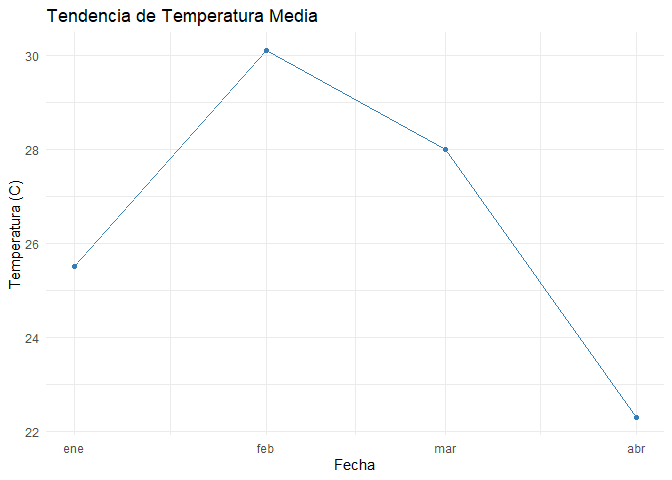
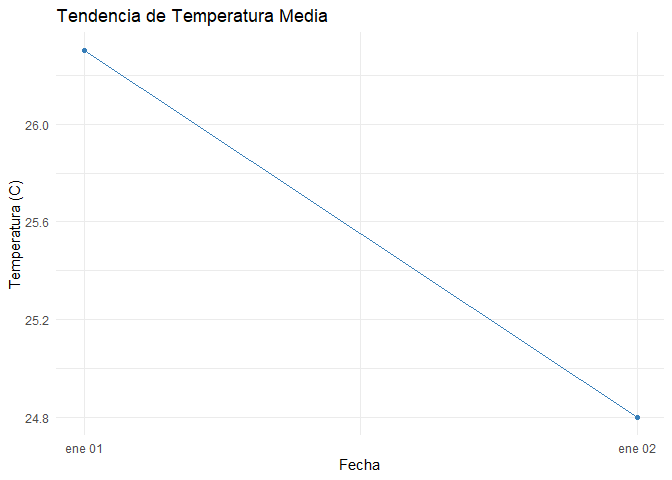
ARREGLANDO EL README + IMAGEN

diff --git a/README.md b/README.md
@@ -6,10 +6,11 @@ experimental](https://img.shields.io/badge/lifecycle-experimental-orange.svg)](h
 
 # paqueteMeteo: Análisis de Datos Meteorológicos del SIGA
 
-El paquete `paqueteMeteo` proporciona un conjunto de herramientas
-enfocadas en la **lectura, limpieza y resumen** de datos meteorológicos
-del sistema SIGA (INTA). Garantiza un flujo de trabajo **reproducible y
-estandarizado** para la ciencia de datos.
+<img src="man/figures/logo.png" align="right" width="120" /> El paquete
+`paqueteMeteo` proporciona un conjunto de herramientas enfocadas en la
+**lectura, limpieza y resumen** de datos meteorológicos del sistema SIGA
+(INTA). Garantiza un flujo de trabajo **reproducible y estandarizado**
+para la ciencia de datos.
 
 ## Características Principales
 
@@ -41,22 +42,28 @@ Puedes instalar la versión de desarrollo desde GitHub con:
 devtools::install_github("Lucas-Descalzo/paqueteMeteo")
 #> utf8     (1.2.4 -> 1.2.6) [CRAN]
 #> tibble   (3.2.1 -> 3.3.0) [CRAN]
-#> purrr    (1.0.2 -> 1.1.0) [CRAN]
+#> stringr  (1.5.2 -> 1.6.0) [CRAN]
+#> purrr    (1.0.2 -> 1.2.0) [CRAN]
 #> magrittr (2.0.3 -> 2.0.4) [CRAN]
 #> glue     (1.7.0 -> 1.8.0) [CRAN]
+#> 
+#>   There are binary versions available but the source versions are later:
+#>         binary source needs_compilation
+#> stringr  1.5.2  1.6.0             FALSE
+#> purrr    1.1.0  1.2.0              TRUE
+#> 
 #> package 'utf8' successfully unpacked and MD5 sums checked
 #> package 'tibble' successfully unpacked and MD5 sums checked
-#> package 'purrr' successfully unpacked and MD5 sums checked
 #> package 'magrittr' successfully unpacked and MD5 sums checked
 #> package 'glue' successfully unpacked and MD5 sums checked
 #> 
 #> The downloaded binary packages are in
-#>  C:\Users\lucas\AppData\Local\Temp\Rtmpkzf9O3\downloaded_packages
+#>  C:\Users\lucas\AppData\Local\Temp\RtmpU3xc0I\downloaded_packages
 #> ── R CMD build ─────────────────────────────────────────────────────────────────
-#>          checking for file 'C:\Users\lucas\AppData\Local\Temp\Rtmpkzf9O3\remotes7de462e86790\Lucas-Descalzo-paqueteMeteo-b74e9ea/DESCRIPTION' ...  ✔  checking for file 'C:\Users\lucas\AppData\Local\Temp\Rtmpkzf9O3\remotes7de462e86790\Lucas-Descalzo-paqueteMeteo-b74e9ea/DESCRIPTION' (369ms)
-#>       ─  preparing 'paqueteMeteo': (720ms)
+#>       ✔  checking for file 'C:\Users\lucas\AppData\Local\Temp\RtmpU3xc0I\remotes26ccc0e5e24\Lucas-Descalzo-paqueteMeteo-bdbe7fc/DESCRIPTION'
+#>       ─  preparing 'paqueteMeteo': (447ms)
 #>    checking DESCRIPTION meta-information ...     checking DESCRIPTION meta-information ...   ✔  checking DESCRIPTION meta-information
-#>       ─  checking for LF line-endings in source and make files and shell scripts (362ms)
+#>       ─  checking for LF line-endings in source and make files and shell scripts
 #>   ─  checking for empty or unneeded directories
 #>      Omitted 'LazyData' from DESCRIPTION
 #>       ─  building 'paqueteMeteo_0.1.0.tar.gz'
@@ -86,16 +93,22 @@ Se utiliza `siga_read()` para importar los datos crudos y luego
 tipo `Date` en la columna `fecha`.
 
 ``` r
-datos_crudos <- paqueteMeteo::siga_read(ruta_ejemplo)
+datos_crudos <- tibble::tibble(
+  fecha  = as.Date(c("2024-01-01", "2024-01-02")),
+  tmed   = c(26.3, 24.8),
+  lluvia = c(0, 5)
+)
+
+# Forzamos a que se vean mensajes en este chunk
+knitr::opts_chunk$set(message = TRUE)
+
 datos_limpios <- paqueteMeteo::meteo_clean(datos_crudos)
 head(datos_limpios)
-#> # A tibble: 4 × 3
+#> # A tibble: 2 × 3
 #>   fecha       tmed lluvia
 #>   <date>     <dbl>  <dbl>
-#> 1 2024-01-01  25.5    5  
-#> 2 2024-02-01  30.1    1.2
-#> 3 2024-03-01  28      0  
-#> 4 2024-04-01  22.3   15
+#> 1 2024-01-01  26.3      0
+#> 2 2024-01-02  24.8      5
 ```
 
 ### 2. Resumen Estadístico
@@ -108,7 +121,7 @@ paqueteMeteo::meteo_summary(datos_limpios)
 #> # A tibble: 1 × 2
 #>   temp_media lluvia_total
 #>        <dbl>        <dbl>
-#> 1       26.5         21.2
+#> 1       25.6            5
 ```
 
 ### 3. Visualización de Tendencia
@@ -118,11 +131,7 @@ temperatura media, utilizando la columna `fecha` para un análisis
 temporal rápido.
 
 ``` r
-# Aseguramos que los datos tengan la columna fecha para el plot
-datos_limpios_plot <- datos_limpios |>
-    dplyr::mutate(fecha = as.Date(fecha))
-
-paqueteMeteo::meteo_plot(datos_limpios_plot)
+paqueteMeteo::meteo_plot(datos_limpios)
 ```
 
 <img src="man/figures/README-unnamed-chunk-5-1.png" width="100%" />
